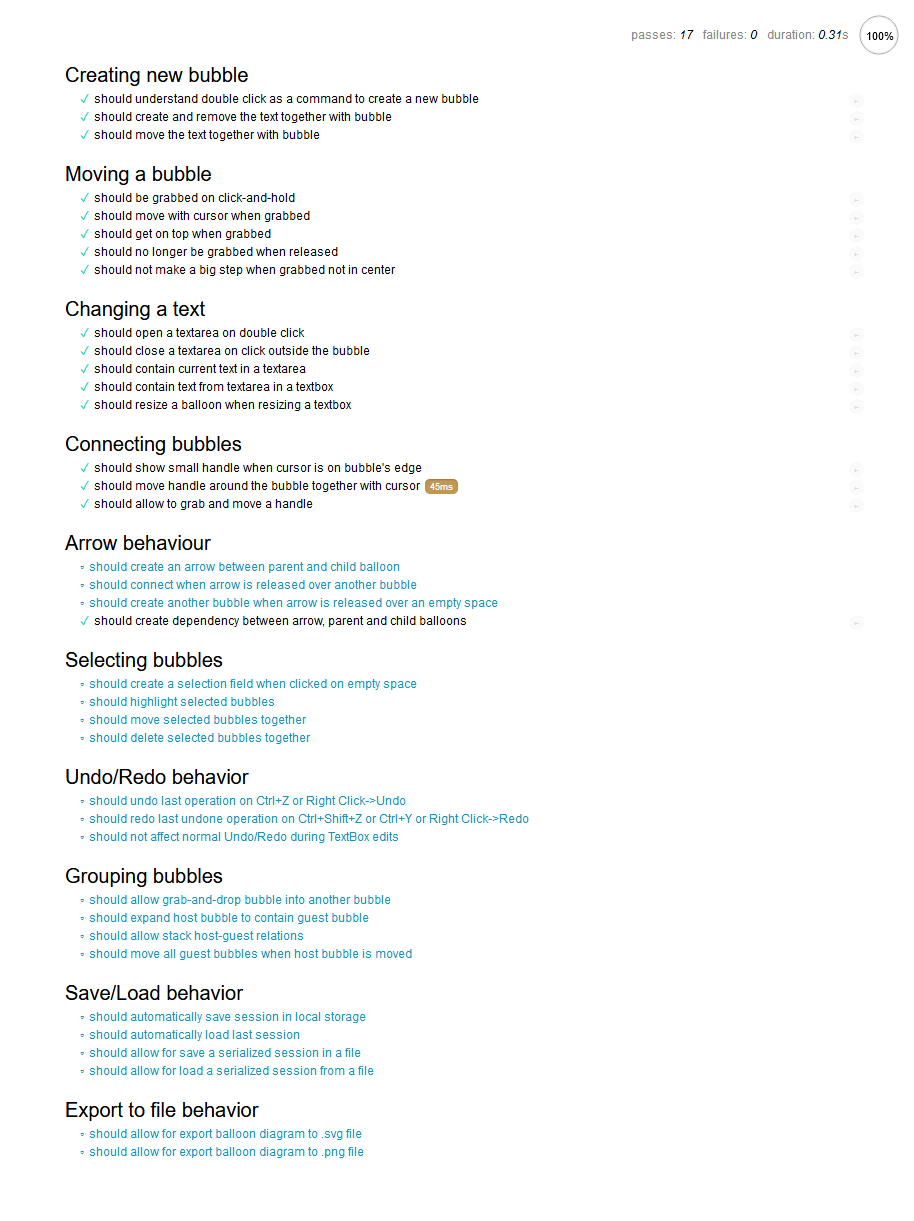
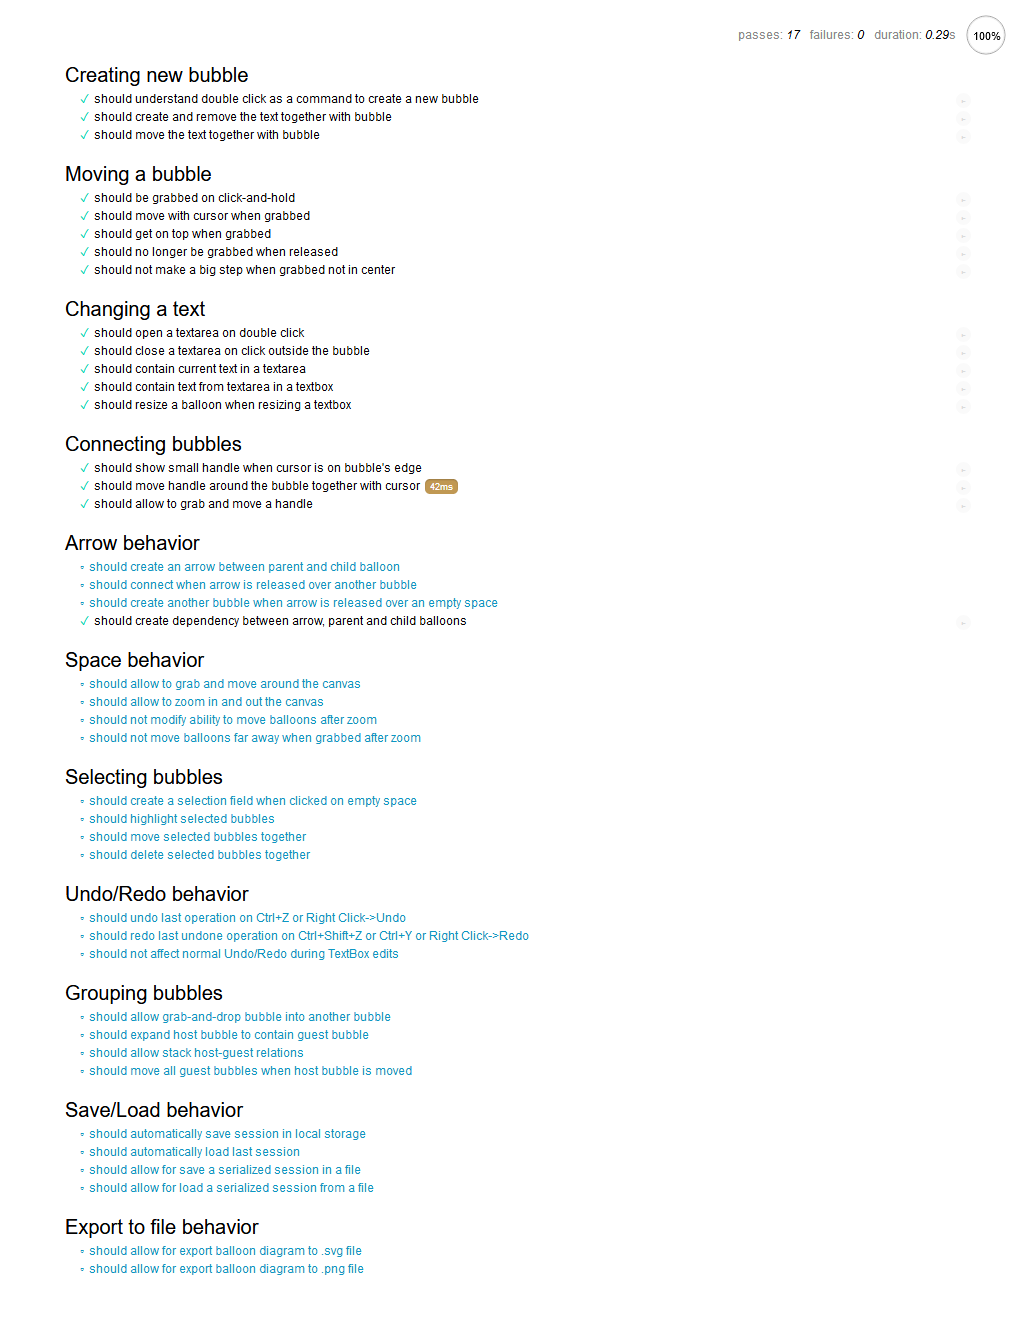
Added zooming on scroll, we have many bugs

Changed region(s): [[0.0613, 0.0311, 0.5821, 0.9648], [0.7046, 0.0, 0.9803, 0.0622]]

diff --git a/scripts/rounding.js b/scripts/rounding.js
@@ -34,13 +34,14 @@
 
 function roundPathCorners(pathString, radius, useFractionalRadius) {
     function moveTowardsLength(movingPoint, targetPoint, amount) {
-        var width = (targetPoint.x - movingPoint.x);
-        var height = (targetPoint.y - movingPoint.y);
+        const width = (targetPoint.x - movingPoint.x);
+        const height = (targetPoint.y - movingPoint.y);
 
-        var distance = Math.sqrt(width * width + height * height);
+        const distance = Math.sqrt(width * width + height * height);
 
         return moveTowardsFractional(movingPoint, targetPoint, Math.min(1, amount / distance));
     }
+
     function moveTowardsFractional(movingPoint, targetPoint, fraction) {
         return {
             x: movingPoint.x + (targetPoint.x - movingPoint.x) * fraction,
@@ -68,7 +69,7 @@ function roundPathCorners(pathString, radius, useFractionalRadius) {
     var pathParts = pathString
         .split(/[,\s]/)
         .reduce(function (parts, part) {
-            var match = part.match("([a-zA-Z])(.+)");
+            const match = part.match('([a-zA-Z])(.+)');
             if (match) {
                 parts.push(match[1]);
                 parts.push(match[2]);
@@ -77,7 +78,8 @@ function roundPathCorners(pathString, radius, useFractionalRadius) {
             }
 
             return parts;
-        }, []);
+        },
+        []);
 
     // Group the commands with their arguments for easier handling
     var commands = pathParts.reduce(function (commands, part) {
@@ -88,7 +90,8 @@ function roundPathCorners(pathString, radius, useFractionalRadius) {
         }
 
         return commands;
-    }, []);
+    },
+        []);
 
     // The resulting commands, also grouped
     var resultCommands = [];
@@ -98,8 +101,8 @@ function roundPathCorners(pathString, radius, useFractionalRadius) {
 
         // Handle the close path case with a "virtual" closing line
         var virtualCloseLine = null;
-        if (commands[commands.length - 1][0] == "Z" && commands[0].length > 2) {
-            virtualCloseLine = ["L", startPoint.x, startPoint.y];
+        if (commands[commands.length - 1][0] == 'Z' && commands[0].length > 2) {
+            virtualCloseLine = ['L', startPoint.x, startPoint.y];
             commands[commands.length - 1] = virtualCloseLine;
         }
 
@@ -117,7 +120,12 @@ function roundPathCorners(pathString, radius, useFractionalRadius) {
                 : commands[cmdIndex + 1];
 
             // Nasty logic to decide if this path is a candidite.
-            if (nextCmd && prevCmd && (prevCmd.length > 2) && curCmd[0] == "L" && nextCmd.length > 2 && nextCmd[0] == "L") {
+            if (nextCmd &&
+                prevCmd &&
+                (prevCmd.length > 2) &&
+                curCmd[0] == 'L' &&
+                nextCmd.length > 2 &&
+                nextCmd[0] == 'L') {
                 // Calc the points we're dealing with
                 var prevPoint = pointForCommand(prevCmd);
                 var curPoint = pointForCommand(curCmd);
@@ -145,7 +153,9 @@ function roundPathCorners(pathString, radius, useFractionalRadius) {
                 var endControl = moveTowardsFractional(curPoint, curveEnd, .5);
 
                 // Create the curve
-                var curveCmd = ["C", startControl.x, startControl.y, endControl.x, endControl.y, curveEnd.x, curveEnd.y];
+                var curveCmd = [
+                    'C', startControl.x, startControl.y, endControl.x, endControl.y, curveEnd.x, curveEnd.y
+                ];
                 // Save the original point for fractional calculations
                 curveCmd.origPoint = curPoint;
                 resultCommands.push(curveCmd);
@@ -158,12 +168,12 @@ function roundPathCorners(pathString, radius, useFractionalRadius) {
         // Fix up the starting point and restore the close path if the path was orignally closed
         if (virtualCloseLine) {
             var newStartPoint = pointForCommand(resultCommands[resultCommands.length - 1]);
-            resultCommands.push(["Z"]);
+            resultCommands.push(['Z']);
             adjustCommand(resultCommands[0], newStartPoint);
         }
     } else {
         resultCommands = commands;
     }
 
-    return resultCommands.reduce(function (str, c) { return str + c.join(" ") + " "; }, "");
+    return resultCommands.reduce(function (str, c) { return str + c.join(' ') + ' '; }, '');
 }

diff --git a/test/test.js b/test/test.js
@@ -240,7 +240,7 @@ describe('Connecting bubbles',
             });
     });
 
-describe('Arrow behaviour',
+describe('Arrow behavior',
     () => {
         it('should create an arrow between parent and child balloon');
 
@@ -265,6 +265,17 @@ describe('Arrow behaviour',
                 b.childBalloons[0].should.equal(b2);
                 Space.clear();
             });
+    });
+
+describe('Space behavior',
+    () => {
+        it('should allow to grab and move around the canvas');
+
+        it('should allow to zoom in and out the canvas');
+
+        it('should not modify ability to move balloons after zoom');
+
+        it('should not move balloons far away when grabbed after zoom');
     });
 
 describe('Selecting bubbles',

diff --git a/index.html b/index.html
@@ -4,7 +4,10 @@
 <head>
     <meta charset="utf-8" />
     <title>Floating diagrams</title>
-    <script src="https://ajax.googleapis.com/ajax/libs/jquery/3.3.1/jquery.min.js"></script>
+    <script src="https://code.jquery.com/jquery-3.3.1.js"
+            integrity="sha256-2Kok7MbOyxpgUVvAk/HJ2jigOSYS2auK4Pfzbm7uH60="
+            crossorigin="anonymous"></script>
+    <!--<script src="https://ajax.googleapis.com/ajax/libs/jquery/3.3.1/jquery.min.js"></script>-->
     <script src="https://code.createjs.com/createjs-2015.11.26.min.js"></script>
     <script src="https://cdnjs.cloudflare.com/ajax/libs/snap.svg/0.5.1/snap.svg.js"></script>
     <script src="https://d3js.org/d3.v4.min.js"></script>

diff --git a/scripts/space.js b/scripts/space.js
@@ -122,5 +122,25 @@
         this.draggingBalloon = false;
         this.draggingHandle = false;
         Balloons.clear();
+    },
+
+    zoom(value) {
+        var viewBox = this.s.attr('viewBox');
+        console.log(viewBox);
+        var [x, y, w, h] = [viewBox.x, viewBox.y, viewBox.w, viewBox.h];
+
+        var alpha = (w - x) / (h - y);
+
+        x -= value * alpha;
+        y -= value;
+        w += value * alpha;
+        h += value;
+        this.s.attr({ viewBox: `${x},${y},${w},${h}` });
+        this.refresh();
+    },
+
+    refresh() {
+        $('#body').css({ display: 'none' });
+        $('#body').css({ display: 'initial' });
     }
 }

diff --git a/scripts/handle.js b/scripts/handle.js
@@ -3,12 +3,12 @@
         this.arrow = null;
         this.isDragged = false;
         this.parentBalloon = Balloons.getLast();
-        this.handle = Space.s.rect(0, 0, 40, 40, 10);
+        this.handle = Space.s.rect(0, 0, 40, 40);
         this.handle.attr({
             class: 'balloon',
             id: 'handle',
-            stroke: '#123456',
-            strokeWidth: 5,
+            //stroke: '#123456',
+            //strokeWidth: 5,
             fill: 'red',
             opacity: 0.8
         });

diff --git a/scripts/balloon.js b/scripts/balloon.js
@@ -82,12 +82,12 @@
         x = x - w / 2;
         y = y - h / 2;
 
-        const div = Space.s.rect(x, y, w, h, 20, 20);
+        const div = Space.s.rect(x, y, w, h);
         div.attr({
             id: `balloon${Balloons.numBalloons}`,
             class: 'balloon',
-            stroke: '#123456',
-            'strokeWidth': 10,
+            //stroke: '#123456',
+            //'strokeWidth': 10,
             fill: 'red',
             'opacity': 0.8
         });

diff --git a/scripts/mouseEvents.js b/scripts/mouseEvents.js
@@ -18,6 +18,11 @@ document.body.onmousemove = (event) => {
     Space.moveElement(event);
 };
 
+document.body.addEventListener('wheel',
+    (event) => {
+        Space.zoom(event.deltaY);
+    });
+
 Mouse = {
     runEvent(name, x, y) {
         [x, y] = Space.screenPoint(x, y);
